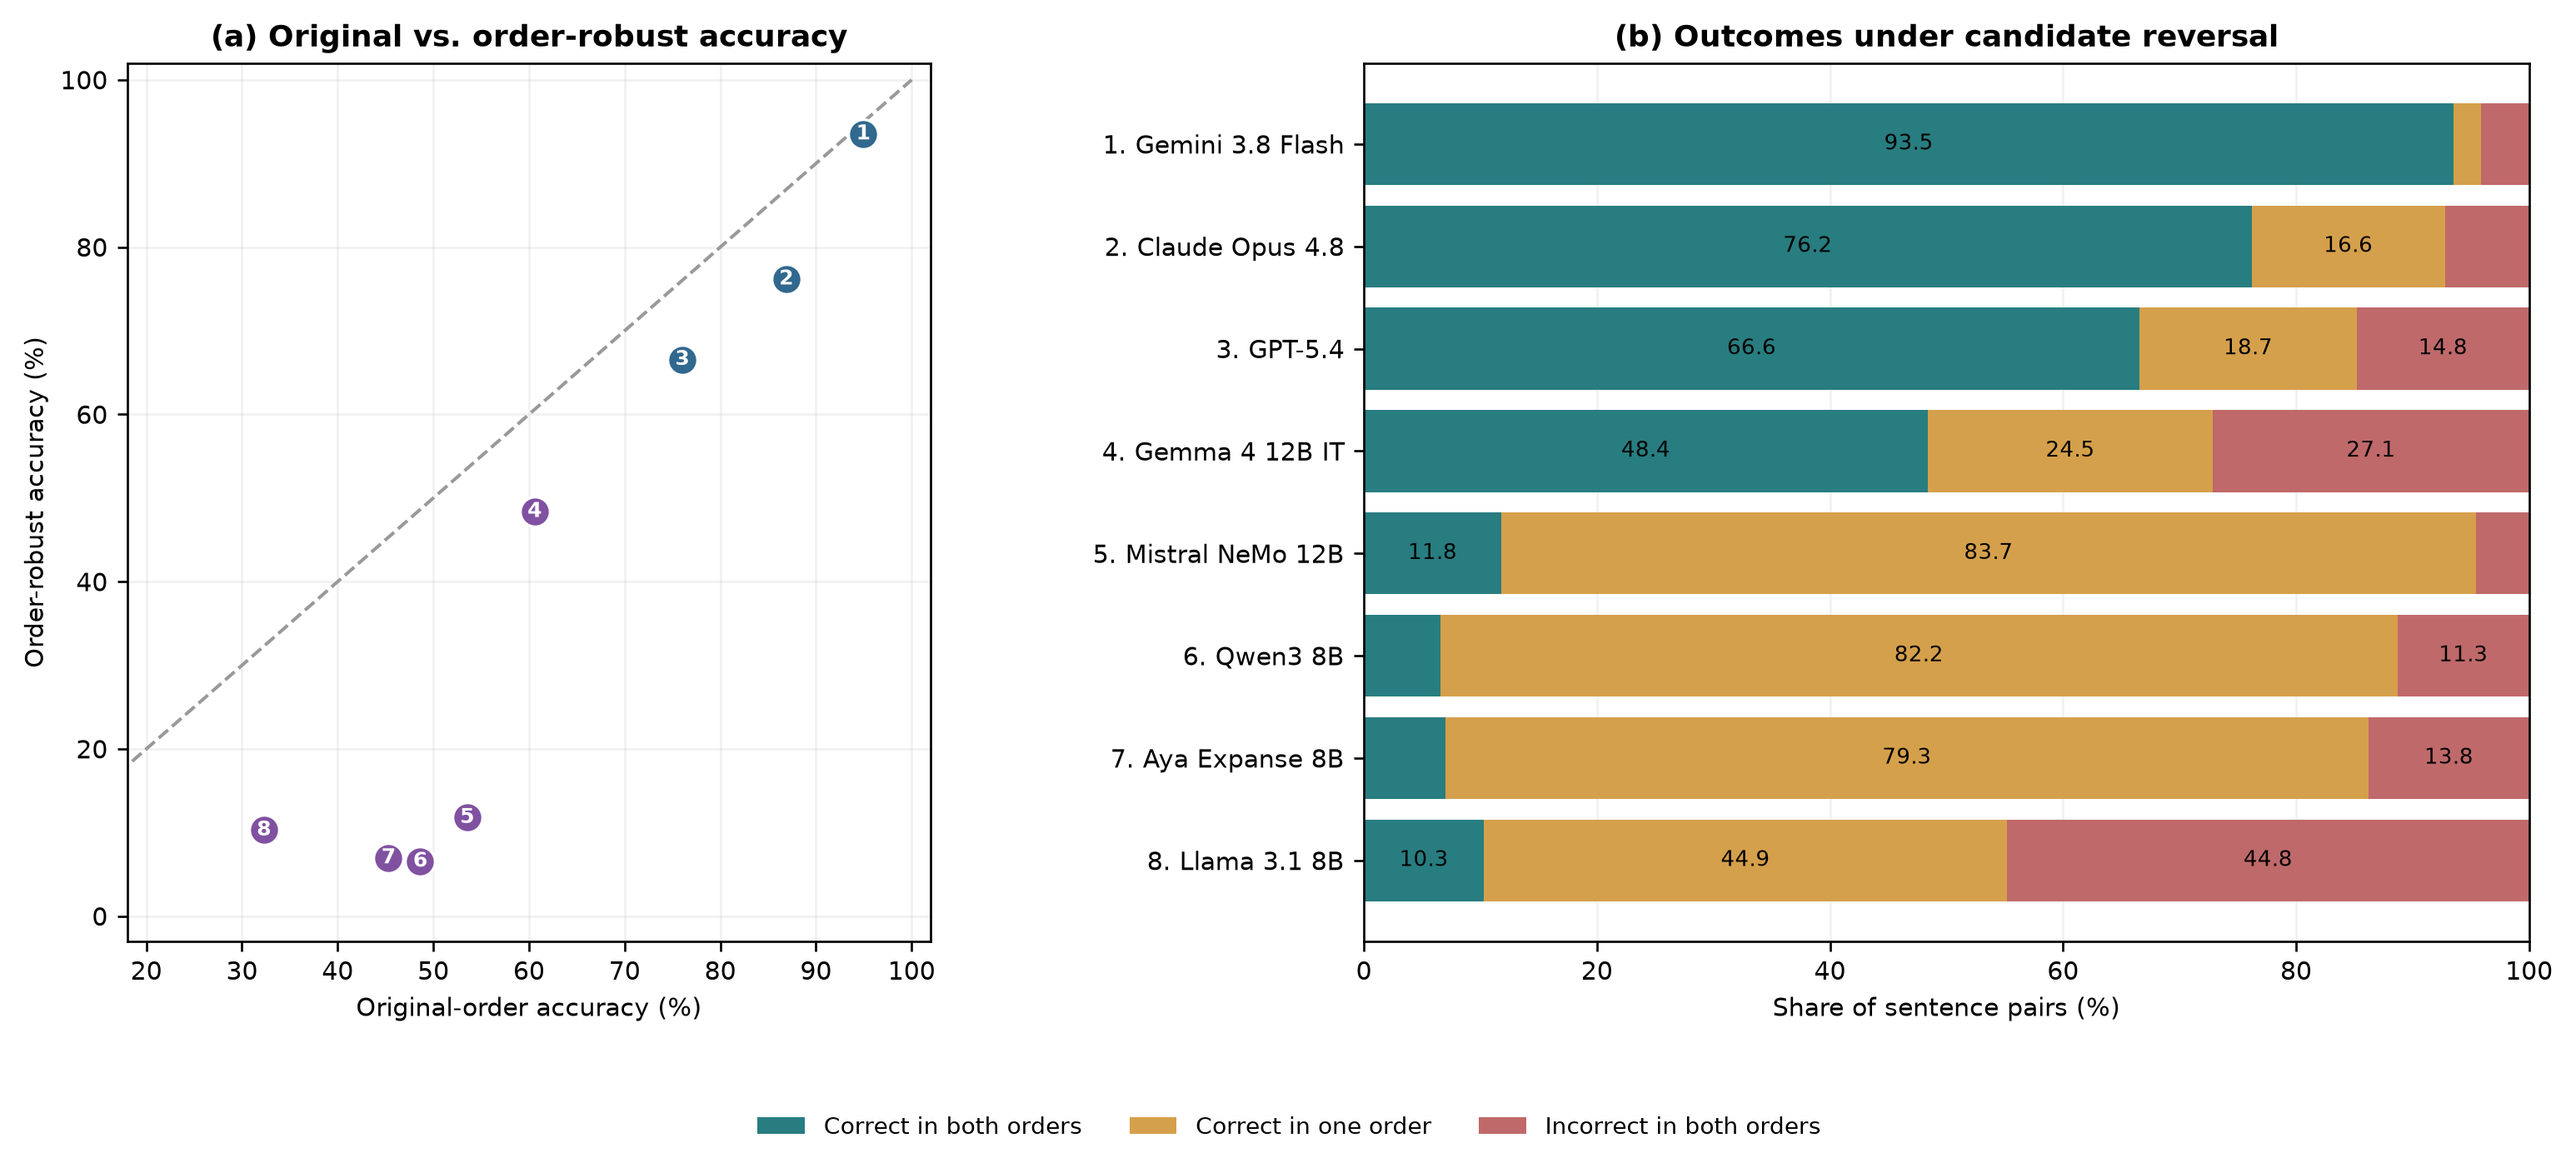
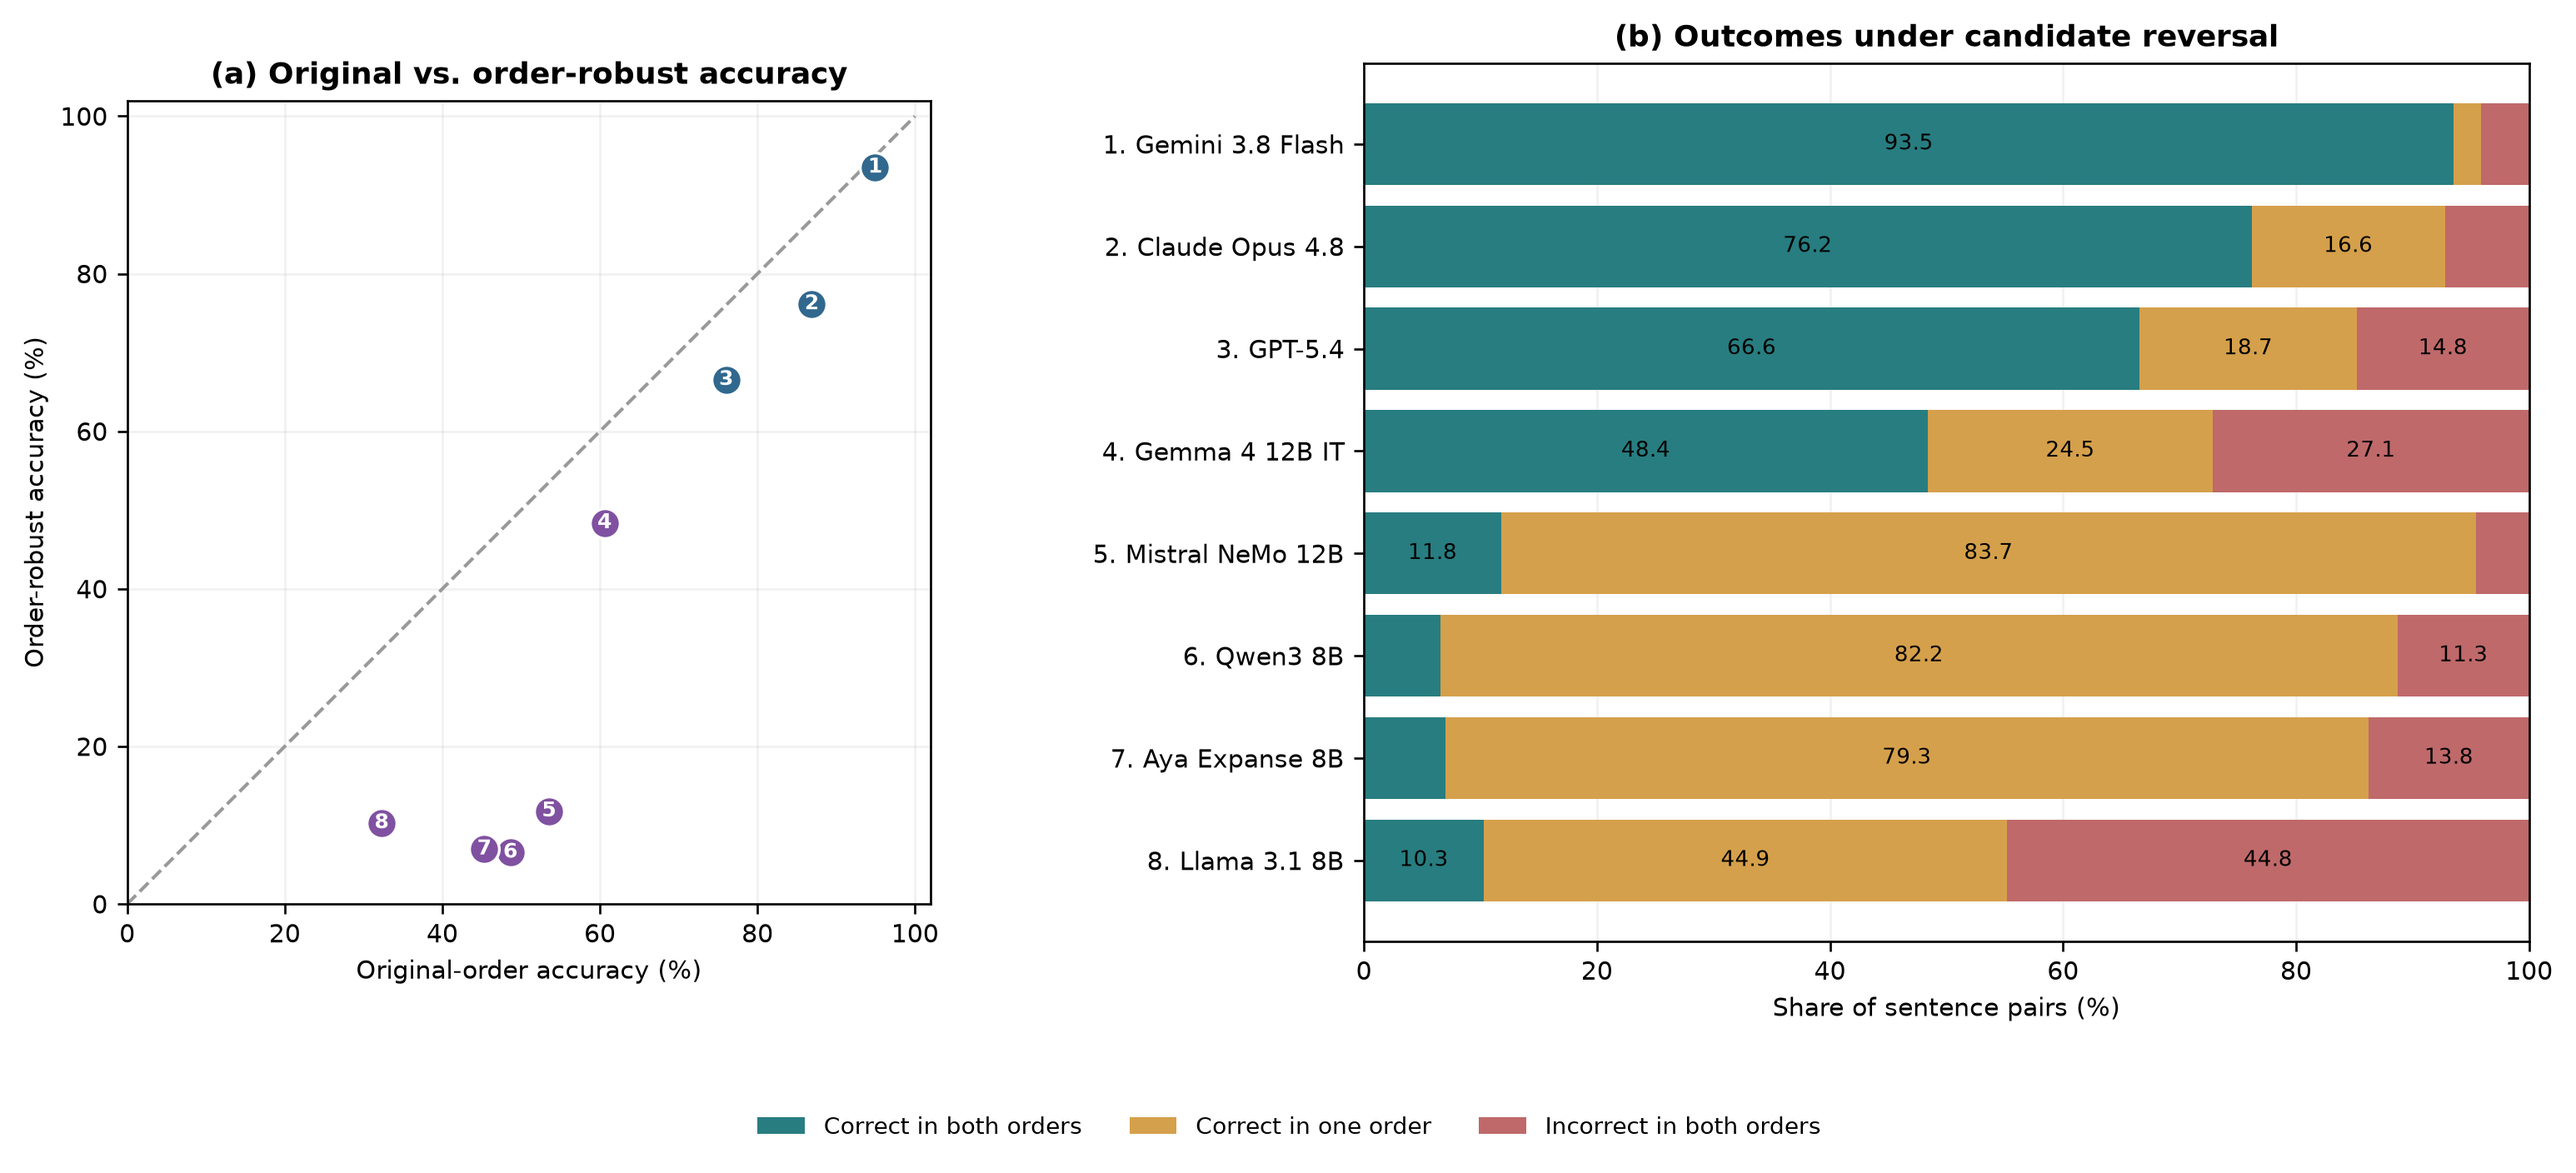
chore: align accuracy scatter plot axes to a common zero-based scale

diff --git a/scripts/plot_publication_figures.py b/scripts/plot_publication_figures.py
@@ -69,7 +69,15 @@ def plot_two_panel(overall: pd.DataFrame, out: Path) -> None:
         color="#31688e" if i<3 else "#8051a1"
         a.scatter(original[i],both[i],s=115,c=color,edgecolors="white",linewidths=1,zorder=3)
         a.text(original[i],both[i],str(i+1),ha="center",va="center",color="white",fontsize=7.5,weight="bold",zorder=4)
-    a.set(xlim=(18,102),ylim=(-3,102),xlabel="Original-order accuracy (%)",ylabel="Order-robust accuracy (%)")
+    a.set(
+        xlim=(0, 102),
+        ylim=(0, 102),
+        xlabel="Original-order accuracy (%)",
+        ylabel="Order-robust accuracy (%)"
+    )
+    a.set_xticks(np.arange(0, 101, 20))
+    a.set_yticks(np.arange(0, 101, 20))
+    a.set_aspect("equal", adjustable="box")
     a.set_title("(a) Original vs. order-robust accuracy",weight="bold")
     a.grid(alpha=.17)
     y=np.arange(8)

diff --git a/scripts/evaluate.py b/scripts/evaluate.py
@@ -169,7 +169,7 @@ def main():
     p.add_argument('--order',choices=['original','inverted','both'],default='both')
     p.add_argument('--seed',type=int,default=42)
     p.add_argument('--max-new-tokens',type=int,default=768)
-    p.add_argument('--claude-max-tokens',type=int,default=8000)
+    p.add_argument('--claude-max-tokens',type=int,default=768)
     p.add_argument('--thinking-level',choices=['low','medium','high'],default='low')
     p.add_argument('--batch-size',type=int,default=None)
     p.add_argument('--max-retries',type=int,default=5)
